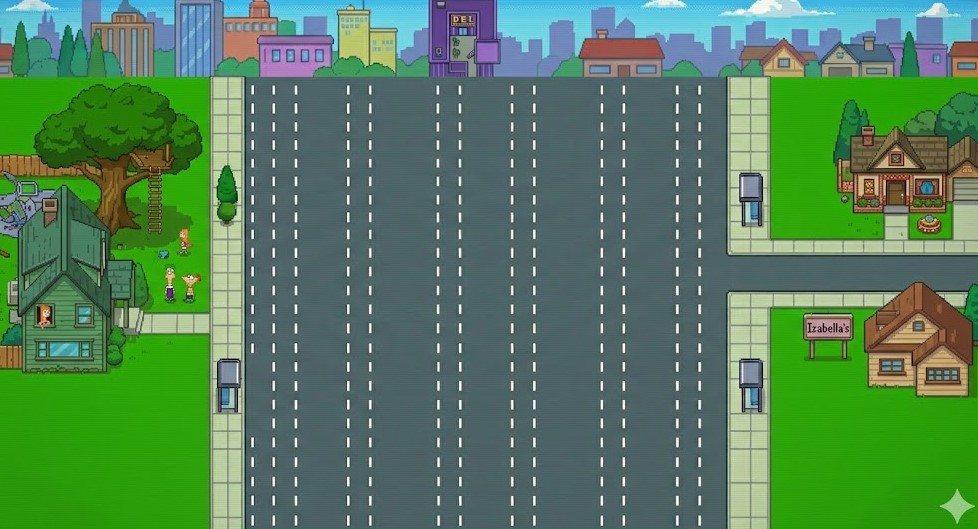
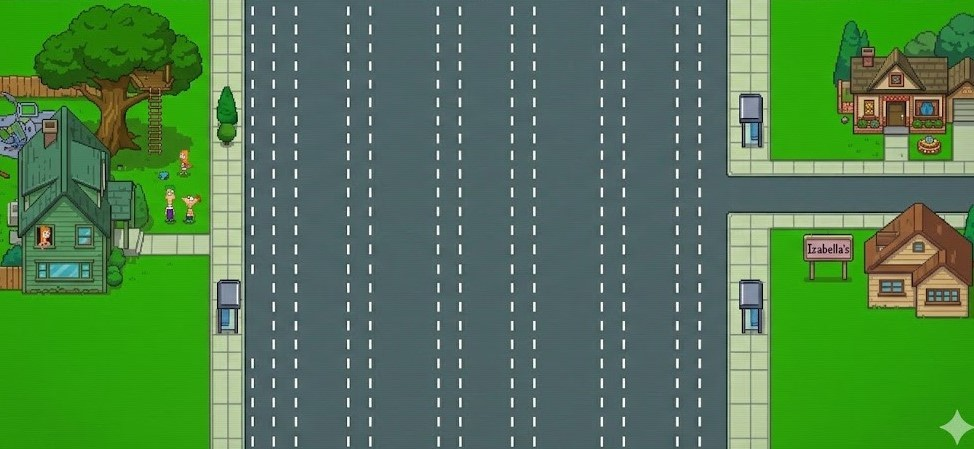
ADD

diff --git a/main.py b/main.py
@@ -1,87 +1,88 @@
-#importando o pygame 
+#Importando o pygame
 import pygame
 
-#adicionando cores
+from classe_inimigo import Inimigo
+from classe_jogador import Jogador
+
+#Dicionário de cores
 cores = {"VERMELHO" : (255,0,0),
-         "AZUL" : (0,255,255),
+         "VERDE" : (0,255,0),
          "CINZA" : (100,100,100),
-         "COR DO PERRY" : (208, 148, 220)} 
-#inicilizando os módulos básicos do pygame,  maioriairia funcionar sem, mas alguns nessitam inicializar
-pygame.init()
+         "COR DE NEYMAR QUANDO FOGE": (255,255,0) }
+
+pygame.init() #Inicializa os módulos do pygame, a maioria iria funcionar sem, mas alguns necessitam inicializar
 
 clock = pygame.time.Clock()
+
 #Criando a tela
-tela = pygame.display.set_mode((800,600))
-#Mudando o nome da tela
+tela  = pygame.display.set_mode((1200,900))
+
+#Configurando a tela
 pygame.display.set_caption("Perry 3000")
-#Mudando a janela
-rua = pygame.image.load("src/img/rua.jpg")
+tela.fill(cores["VERDE"])
 
-#Carregando Imagem
-perry = pygame.image.load("src/img/perry.png")
-    #Carregando os carros
-carro1 = pygame.image.load("src/img/carro1.png")
-carro2 = pygame.image.load("src/img/carro2.png")
-carro3 = pygame.image.load("src/img/carro3.png")
-carro4 = pygame.image.load("src/img/carro4.png")
+#Carregando imagens
+
+# Carregando imagens
+fundo = pygame.image.load("src/img/rua.jpg")
+
+fundo = pygame.transform.rotate(fundo, 270)
+
+fundo = pygame.transform.scale(fundo, (1200, 900))
+
+inicio = pygame.image.load("src/img/tela_ini.png")
+
+inicio = pygame.transform.scale(inicio, (1200, 900))
 
 
+#Criando um inimigo, ou melhor, instanciando uma classe, melhor ainda, eu estou criando meu objeto
+lista_inimigos = [Inimigo("src/img/carro1.png"),
+                  Inimigo("src/img/carro2.png"),
+                  Inimigo("src/img/carro3.png"),
+                  Inimigo("src/img/carro4.png")]
 
-#Diminuindo o tamanho da imagem
-perry = pygame.transform.scale_by(perry, 0.5)
-carro1 = pygame.transform.scale_by(carro1, 0.7)
-#criando uma variavel que  vai definir a posição das imagens
-pos_x_perry=170
-pos_y_perry= 300
+#Instanciar um jogador, rriar objeto perry
+perry = Jogador()
 
-pos_x_rua = 0
-pos_y_rua = 40
+#status jogo
+status_jogo = "INICIO"
 
-pos_X_c1 = 290
-pos_y_c1 = 100
-#Vou criar um loop infinito para manter a janela aberta
+#Vou criar um loping infinito para manter a janela aberta
 while True:
-    lista_eventos = pygame.event.get() #Pego todos os eventos que acontece na janela
-    for evento in lista_eventos: #percorro os eventos
-        if evento.type == pygame.QUIT: #Verifico se um dos eventos é para SAIR
+     lista_eventos = pygame.event.get() #Pego todos os eventos que acontecem na janela
+     for evento in lista_eventos: #Percorro os eventos 
+        if evento.type == pygame.QUIT: #Verifico se um dos eventos é para sair
             pygame.quit() #Encerro o jogo
-            exit()
 
+    
 
-    #Pegando a lista de teclas pressionadas
-    teclas_pressisonadas = pygame.key.get_pressed()
-            
-    #Verifico se a tecla da direita está pressionada
-    if teclas_pressisonadas[pygame.K_RIGHT]:
-            pos_x_perry += 5
+     #pegando a lista de teclas pressionadas
+     teclas_pressionadas = pygame.key.get_pressed()
 
-    if teclas_pressisonadas[pygame.K_LEFT]:
-         pos_x_perry -= 5
-         
-    if teclas_pressisonadas[pygame.K_UP]:
-         pos_y_perry -= 5
-
-    if teclas_pressisonadas[pygame.K_DOWN]:
-         pos_y_perry += 5
-
-    #Barreira esquerda e parte de cima
-    if pos_x_perry < 0:
-         pos_x_perry +=5
-    if pos_y_perry < 0:
-         pos_y_perry +=5
-
-    #Barreira Direita e parte de baixo
-    if pos_x_perry > 725:
-         pos_x_perry -=5
-    if pos_y_perry > 530:
-         pos_y_perry -=5
+     if status_jogo == "INICIO":
+         tela.blit(inicio,(0,0))
+         if teclas_pressionadas[pygame.K_RETURN] or teclas_pressionadas[pygame.K_KP_ENTER]:
+              status_jogo = "JOGANDO"
      
-    #Exibindo a imagem da vaca
-    tela.blit(rua, (pos_x_rua, pos_y_rua))
-    tela.blit(perry, (pos_x_perry,pos_y_perry))
-    tela.blit(carro1, (pos_X_c1, pos_y_c1))
-    #Atualizando a tela
-    pygame.display.update()
+     if status_jogo == "JOGANDO":
+          #exibindo o fundo
+          tela.blit(fundo,(0,0))
 
-    #Controlando o FPS
-    clock.tick(60)
+          perry.exibir(tela)
+          perry.andar(teclas_pressionadas)
+
+               #fazendo inimigo andar
+          for inimigo in lista_inimigos:
+                    inimigo.andar()
+                    inimigo.exibir(tela)
+                    if perry.mascara.overlap(inimigo.mascara,(inimigo.pos_x_inimigo - perry.pos_x_perry, inimigo.pos_y_inimigo - perry.pos_y_perry )):
+                         inimigo.voltar()
+                         perry.som()
+                         perry.voltar()
+                    
+
+     #Atualizando a tela
+     pygame.display.update()
+
+     #Controlar o FPS (frames por segundo)
+     clock.tick(60)

diff --git a/classe_jogador.py b/classe_jogador.py
@@ -1,0 +1,57 @@
+import pygame
+import random
+
+
+class Jogador :
+    def __init__(self):
+        self.imagem = perry = pygame.image.load("src/img/perry.png")
+        self.imagem = perry = pygame.transform.scale_by(self.imagem, 0.5)
+        
+        #Posição da imagem
+        self.pos_x_perry=500
+        self.pos_y_perry= 630
+
+
+         #criando a mascara para ser utilizado na verificação da colissão
+        self.mascara = pygame.mask.from_surface(self.imagem)
+        
+        self.som = pygame.mixer.Sound("src/sound/dragon-studio-car-honk-386166.mp3")
+
+
+    def andar(self, teclas_pressisonadas):
+        if teclas_pressisonadas[pygame.K_RIGHT]:
+            self.pos_x_perry += 5
+
+        if teclas_pressisonadas[pygame.K_LEFT]:
+            self.pos_x_perry -= 5
+            
+        if teclas_pressisonadas[pygame.K_UP]:
+            self.pos_y_perry -= 5
+
+        if teclas_pressisonadas[pygame.K_DOWN]:
+            self.pos_y_perry += 5
+
+        #Barreira esquerda e parte de cima
+        if self.pos_x_perry < 0:
+            self.pos_x_perry +=5
+        if self.pos_y_perry < 0:
+            self.pos_y_perry +=5
+
+        #Barreira Direita e parte de baixo
+        if self.pos_x_perry > 1130:
+            self.pos_x_perry -=5
+        if self.pos_y_perry > 800:
+            self.pos_y_perry -=5
+
+
+    def exibir(self, tela_do_jogo):
+     tela_do_jogo.blit(self.imagem,(self.pos_x_perry,self.pos_y_perry))
+
+    def voltar(self):
+        self.pos_x_perry=500
+        self.pos_y_perry= 630
+
+       
+
+    def som(self):
+        self.som.play()

diff --git a/classe_inimigo.py b/classe_inimigo.py
@@ -1,0 +1,37 @@
+import pygame
+import random
+
+class Inimigo:
+
+    def __init__(self, endereco_imagem):
+        self.imagem = pygame.image.load(endereco_imagem)
+        self.imagem = pygame.transform.scale(self.imagem,(120,120))
+        self.imagem = pygame.transform.flip(self.imagem,True,False)
+        self.imagem = pygame.transform.rotate(self.imagem, 90)
+
+        #Criando um atributo que vai definir a posição do  inimigo
+        self.pos_x_inimigo = -100
+
+        #criando um atributo para definir a posição y do inimigo
+        self.pos_y_inimigo = random.randint(200,560)
+
+        #criando um atributo para definir a velocidade
+        self.velocidade = random.randint(3,6)
+        
+        #criando a mascara para ser utilizado na verificação da colissão
+        self.mascara = pygame.mask.from_surface(self.imagem)
+
+
+    def andar(self):
+        self.pos_x_inimigo = self.pos_x_inimigo + self.velocidade
+        #se o inimigo chegar até o final, ele volta
+        if self.pos_x_inimigo > 900:
+            self.voltar()
+
+    def exibir(self, tela_do_jogo):
+        tela_do_jogo.blit(self.imagem,(self.pos_x_inimigo,self.pos_y_inimigo))
+
+    def voltar(self):
+        self.pos_x_inimigo = -100
+        self.pos_y_inimigo = random.randint(200,560)
+        self.velocidade = random.randint(3,5)
